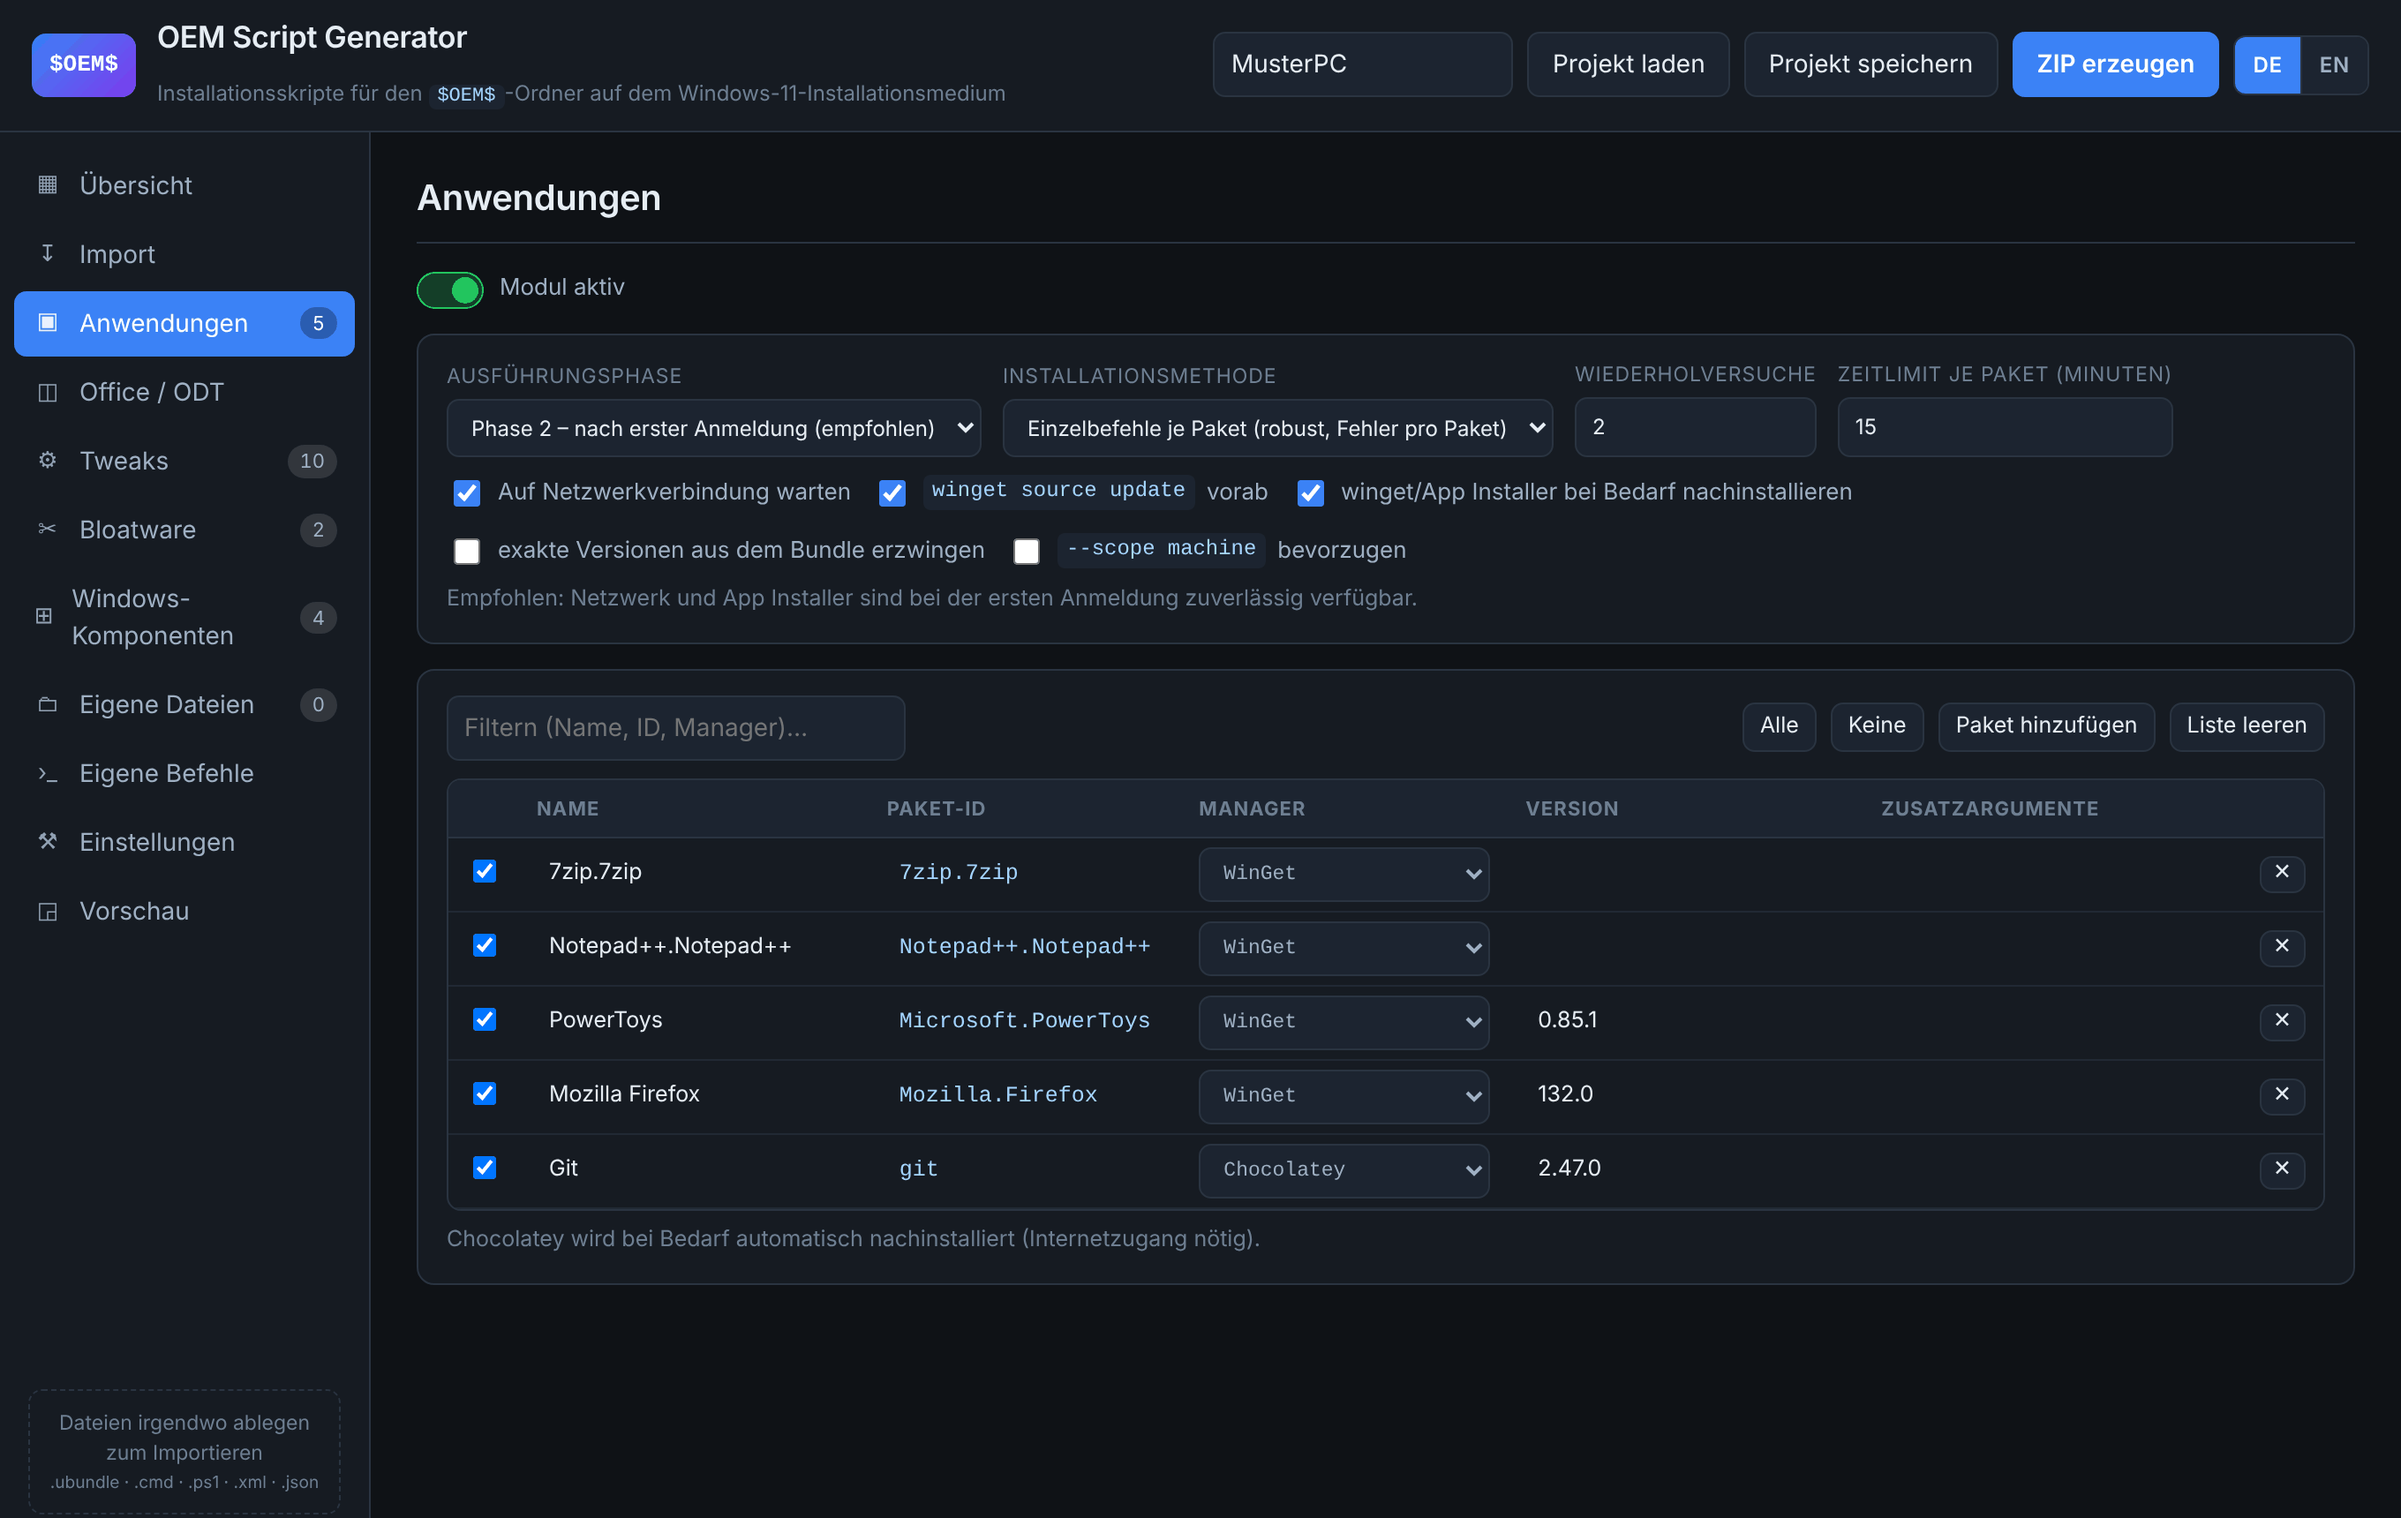
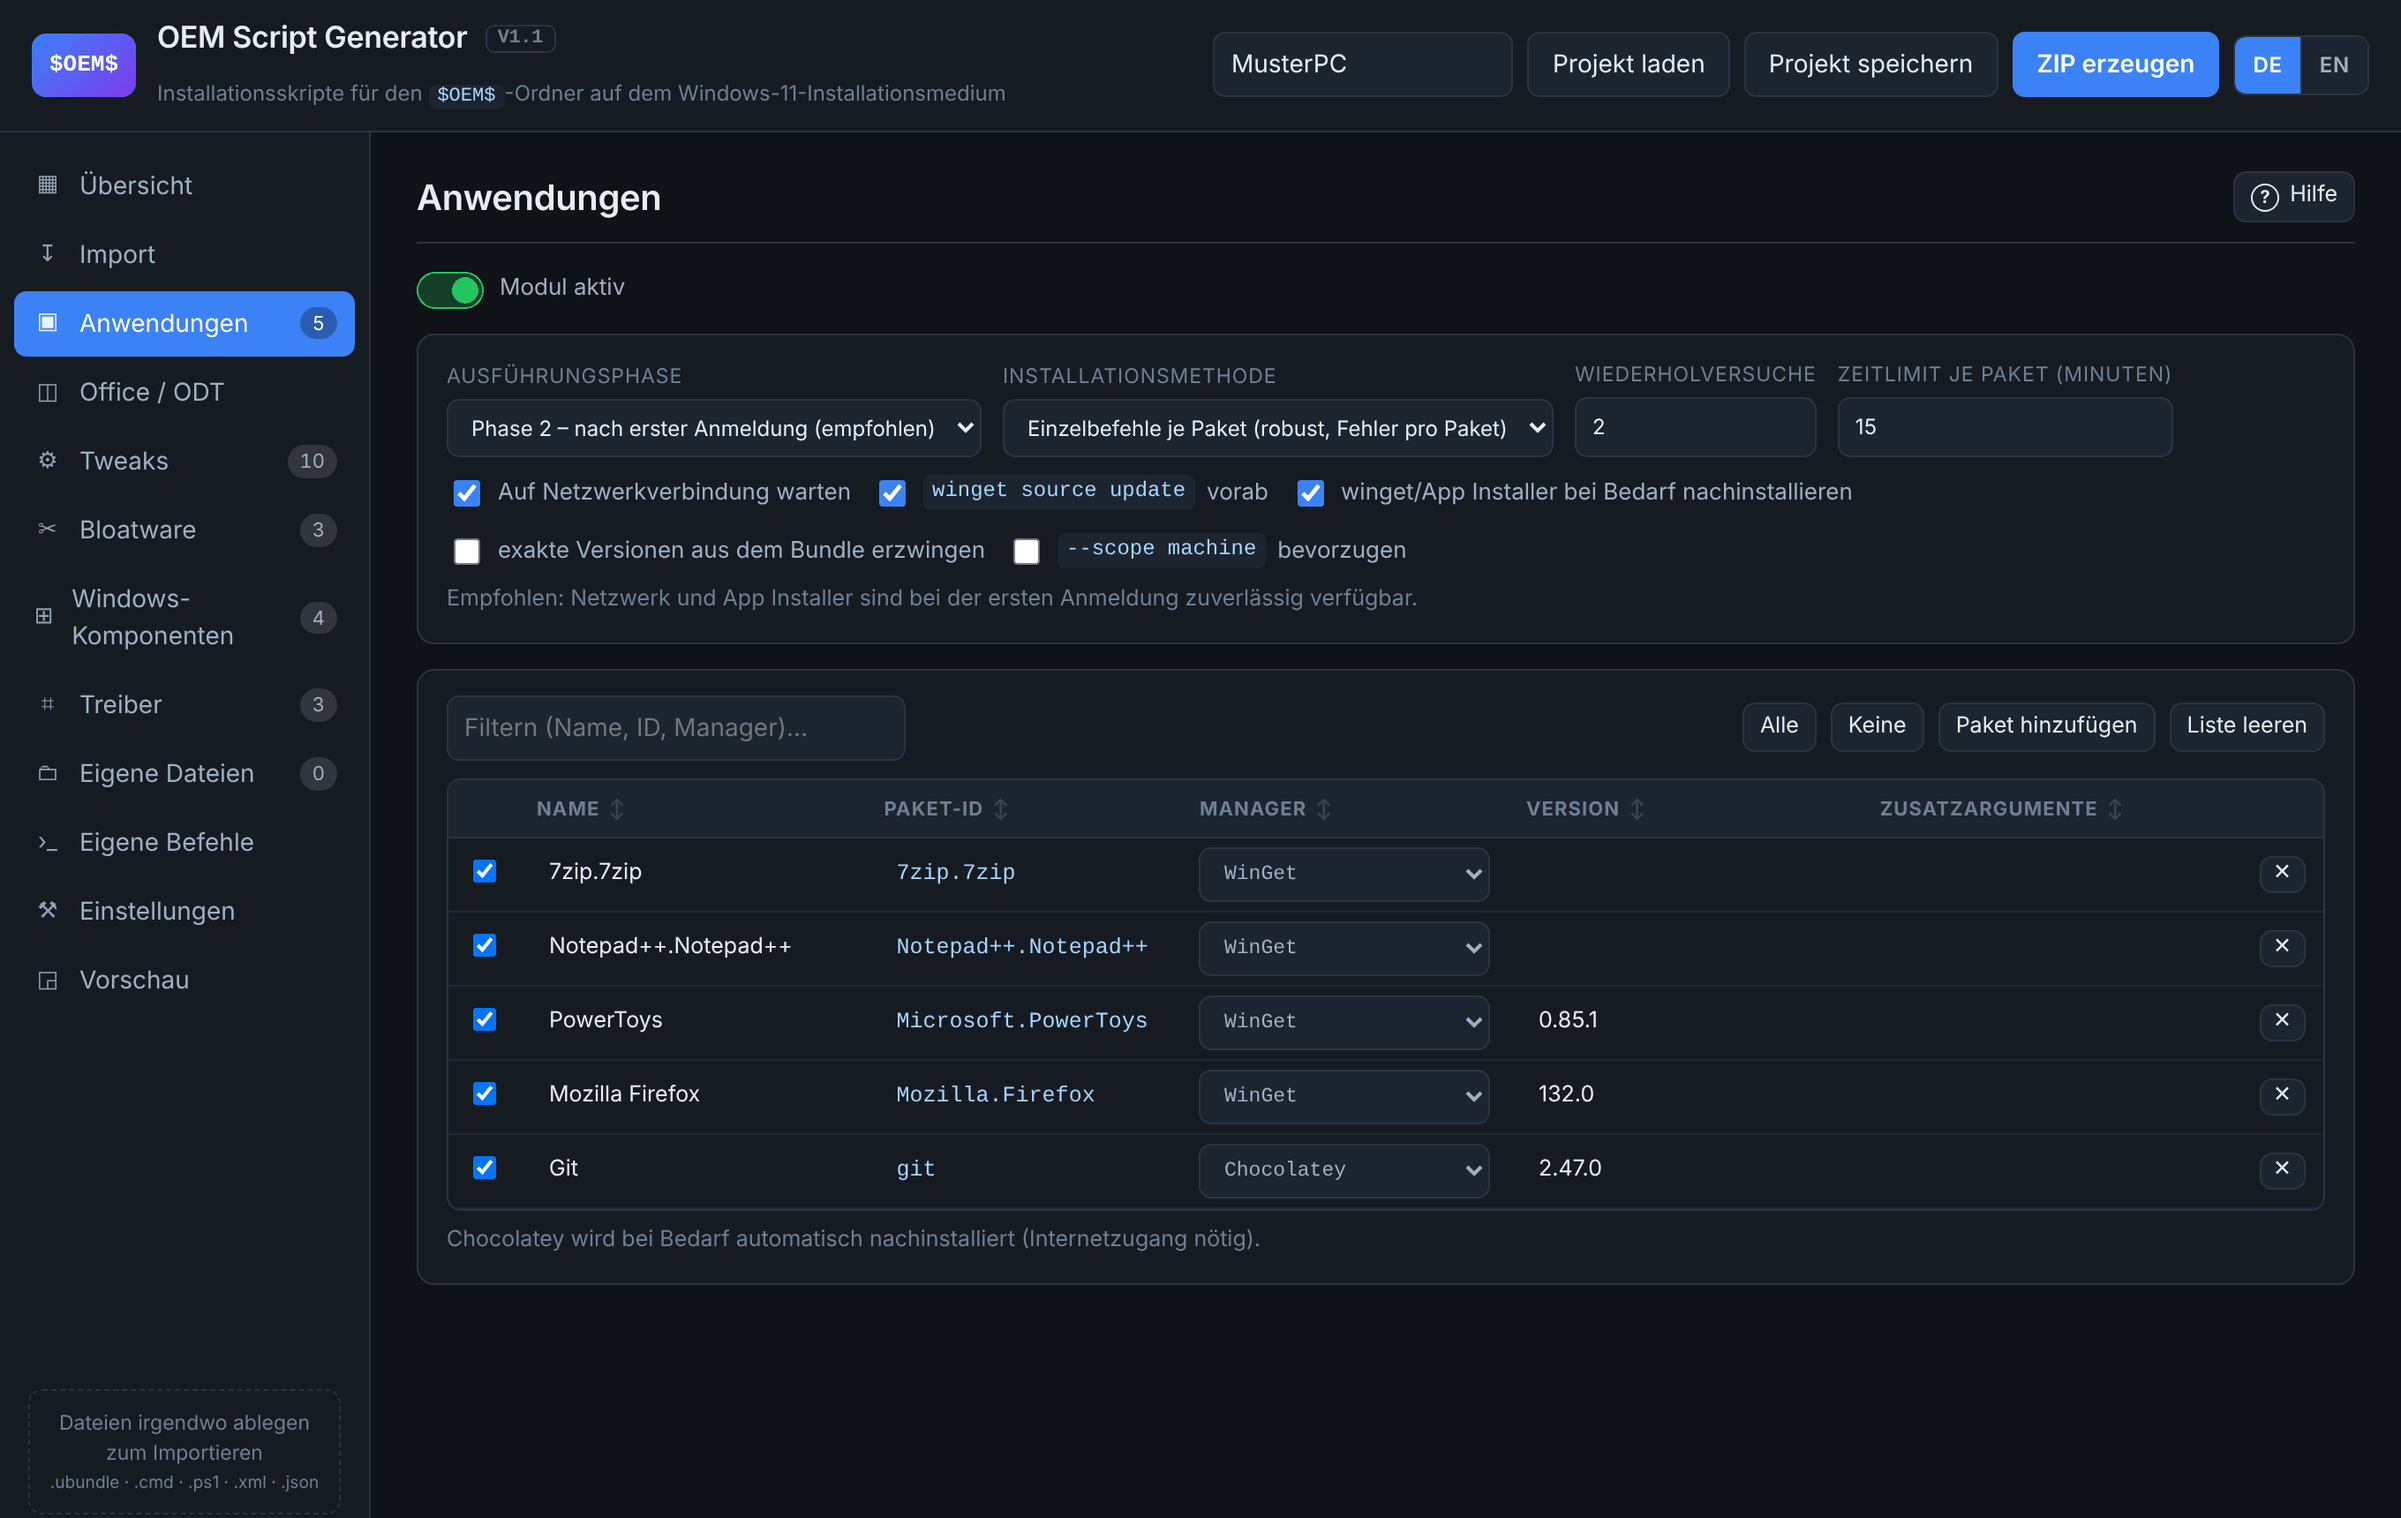
Version 1.1: Versionsnummer, Release-Notes, neue Screenshots
- js/version.js und Kopfzeile auf 1.1
- docs/releases/v1.1.md: Release-Notes
- Screenshots neu aufgenommen (Versionsschild, Treiber-Navigation,
  Hilfe-Knopf, Option UseConfigurationSet), dazu zwei neue Ansichten:
  Treiber und Hilfe-Dialog
- README: Galerie um Treiber und Hilfe ergänzt, Release-Anleitung nennt
  die Versionsnummer in js/version.js

Claude-Session: https://claude.ai/code/session_01XAuQpSomN8QB4MVYkHqqJN

diff --git a/index.html b/index.html
@@ -12,7 +12,7 @@
   <div class="brand">
     <span class="logo" data-i18n="oem">$OEM$</span>
     <div>
-      <h1><span data-i18n="oem-script-generator">OEM Script Generator</span> <span class="version" id="appVersion">V1.00</span></h1>
+      <h1><span data-i18n="oem-script-generator">OEM Script Generator</span> <span class="version" id="appVersion">V1.1</span></h1>
       <p class="sub" data-i18n="installationsskripte-fuer-den-oem-ordner">Installationsskripte für den <code>$OEM$</code>-Ordner auf dem Windows-11-Installationsmedium</p>
     </div>
   </div>

diff --git a/js/version.js b/js/version.js
@@ -3,5 +3,5 @@
     wenn der Release-Tag (v1.00) nicht zu ihr passt. */
 (function (global) {
   'use strict';
-  global.APP_VERSION = '1.00';
+  global.APP_VERSION = '1.1';
 })(window);

diff --git a/docs/releases/v1.1.md b/docs/releases/v1.1.md
@@ -1,0 +1,32 @@
+Version 1.1 bringt ein Treiber-Modul, eine Hilfe auf jeder Seite und eine wichtige Korrektur für aktuelle Windows-11-Builds: Ohne `UseConfigurationSet=true` in der Antwortdatei kopiert Windows Setup den `$OEM$`-Ordner dort unter Umständen gar nicht.
+
+## Download
+
+**`OEM-Script-Generator-v1.1.zip`** herunterladen, entpacken, `index.html` im Browser öffnen.
+
+## Neu
+
+- **Treiber-Modul:** Entpackte Treiber (INF) als Pakete mitliefern.
+  - Einspielen per `pnputil` in Phase 1 oder Laden durch Windows Setup über `$WinPEDriver$` (NVMe/RAID, Netzwerk).
+  - Modellfilter je Paket, damit ein Medium mehrere Gerätemodelle bedient.
+  - Leere Pakete für große Treibersammlungen, deren Dateien direkt aufs Medium kopiert werden.
+- **Hilfe auf jeder Seite:** Der Knopf „Hilfe“ oder <kbd>F1</kbd> öffnet eine ausführliche Beschreibung aller Optionen, auf Deutsch und Englisch.
+- **„Speichern unter“-Dialog** für Projektdatei und ZIP in Chrome und Edge. Der zuletzt gewählte Ordner bleibt gemerkt, auch nach dem Neuladen. Firefox und Safari laden die Datei wie bisher herunter.
+- **Spaltensortierung** in der Anwendungsliste. Die Installationsreihenfolge bleibt davon unberührt.
+- **Versionsnummer** in der Kopfzeile.
+
+## Korrigiert
+
+- **`$OEM$` wurde nicht kopiert:** Auf Windows 11 (Build 26300) hat Setup `$OEM$` mit einer Antwortdatei ohne `UseConfigurationSet=true` nicht übernommen. Es gab dann keinen Installationsordner und keine Phase 2.
+  - Der Generator schreibt den Wert jetzt in die erzeugte und in eine importierte `autounattend.xml` (abschaltbar unter *Einstellungen → Auslöser*).
+  - Die Ablage von `$OEM$` steht dabei auf „beide Orte“, weil Setup den Ordner dann im Wurzelverzeichnis des Mediums sucht.
+  - Hinweis: Setup kopiert den Ordner der Antwortdatei nach `C:\Windows\ConfigSetRoot`. Auf Multiboot-Sticks wie Ventoy kann das sehr groß werden.
+- **Falsches „OK“ in der Zusammenfassung:** Ein gescheitertes Modul, etwa ein nicht installiertes Paket, wurde am Ende trotzdem als OK gemeldet.
+- **Fehlende Dateien nach dem Laden einer Projektdatei:** Installer und Treiber stehen nicht in der Projektdatei. Die Platzhalter sind jetzt markiert und lassen sich neu zuordnen, und „ZIP erzeugen“ fragt nach, wenn noch etwas fehlt.
+- **Zu große ZIPs:** Über 4 GB oder 65.535 Dateien bricht der Export mit einer Erklärung ab, statt ein defektes Archiv zu schreiben.
+
+Screenshots und die vollständige Beschreibung stehen im [README](https://github.com/dmatrix68-boop/OEM-script-gen/blob/v1.1/README.md) ([English](https://github.com/dmatrix68-boop/OEM-script-gen/blob/v1.1/README.en.md)).
+
+---
+
+*English:* Version 1.1 adds a drivers module (pnputil or `$WinPEDriver$`, with a per-model filter), a help dialog on every page (<kbd>F1</kbd>), a "Save as" dialog that remembers the last folder, and column sorting for the application list. It also writes `UseConfigurationSet=true` into the answer file, because current Windows 11 builds may otherwise not copy `$OEM$` at all, and it fixes a summary that reported OK for a failed module. Download `OEM-Script-Generator-v1.1.zip`, unpack it and open `index.html`.

diff --git a/README.md b/README.md
@@ -25,6 +25,8 @@ Sprache bestimmt auch, ob im erzeugten Archiv `LIESMICH.txt` oder `README.txt` l
 | **Tweaks** – Einstellungen mit Phase und Netzwerkbedarf | **Windows-Komponenten** – mit Hilfe-Link und Virtualisierungsprüfung |
 | ![Einstellungen: Pfade, Auslöser, Ablauf](docs/screenshots/de-settings.png) | ![Vorschau aller erzeugten Dateien](docs/screenshots/de-preview.png) |
 | **Einstellungen** – Auslöser, Phase 2, Abschluss | **Vorschau** – jede erzeugte Datei vor dem Export |
+| ![Treiberpakete mit Ziel und Modellfilter](docs/screenshots/de-drivers.png) | ![Hilfe-Dialog zur aktuellen Seite](docs/screenshots/de-help.png) |
+| **Treiber** – Pakete für pnputil oder Windows Setup, mit Modellfilter | **Hilfe** – ausführliche Beschreibung zu jeder Seite, auch per F1 |
 
 ## Download
 
@@ -461,8 +463,9 @@ beiden Prüfungen aus, baut mit `node tools/build-release.js <tag>` das Paket
 `dist/OEM-Script-Generator-<tag>.zip` und legt das GitHub-Release an. Die
 Release-Notes kommen aus `docs/releases/<tag>.md`. Im Paket ersetzt das Skript
 die eingebetteten Screenshots in beiden READMEs durch Links auf das Repository
-zum selben Tag.
+zum selben Tag. Vorher die Versionsnummer in `js/version.js` anpassen – das
+Build-Skript bricht ab, wenn sie nicht zum Tag passt.
 
 ```bash
-git tag v1.00 && git push origin v1.00
+git tag v1.1 && git push origin v1.1
 ```

diff --git a/README.en.md b/README.en.md
@@ -25,6 +25,8 @@ determines whether the generated archive contains `LIESMICH.txt` or `README.txt`
 | **Tweaks** – settings with phase and network needs | **Windows components** – with help link and virtualisation check |
 | ![Settings: paths, trigger, sequence](docs/screenshots/en-settings.png) | ![Preview of every generated file](docs/screenshots/en-preview.png) |
 | **Settings** – trigger, phase 2, completion | **Preview** – every generated file before export |
+| ![Driver packages with target and model filter](docs/screenshots/en-drivers.png) | ![Help dialog for the current page](docs/screenshots/en-help.png) |
+| **Drivers** – packages for pnputil or Windows Setup, with a model filter | **Help** – a detailed description of every page, also via F1 |
 
 ## Download
 
@@ -449,8 +451,9 @@ checks, builds the package `dist/OEM-Script-Generator-<tag>.zip` with
 `node tools/build-release.js <tag>` and creates the GitHub release. The release
 notes come from `docs/releases/<tag>.md`. Inside the package the script replaces
 the embedded screenshots in both READMEs with links to the repository at the
-same tag.
+same tag. Adjust the version number in `js/version.js` first – the build script
+stops if it does not match the tag.
 
 ```bash
-git tag v1.00 && git push origin v1.00
+git tag v1.1 && git push origin v1.1
 ```
